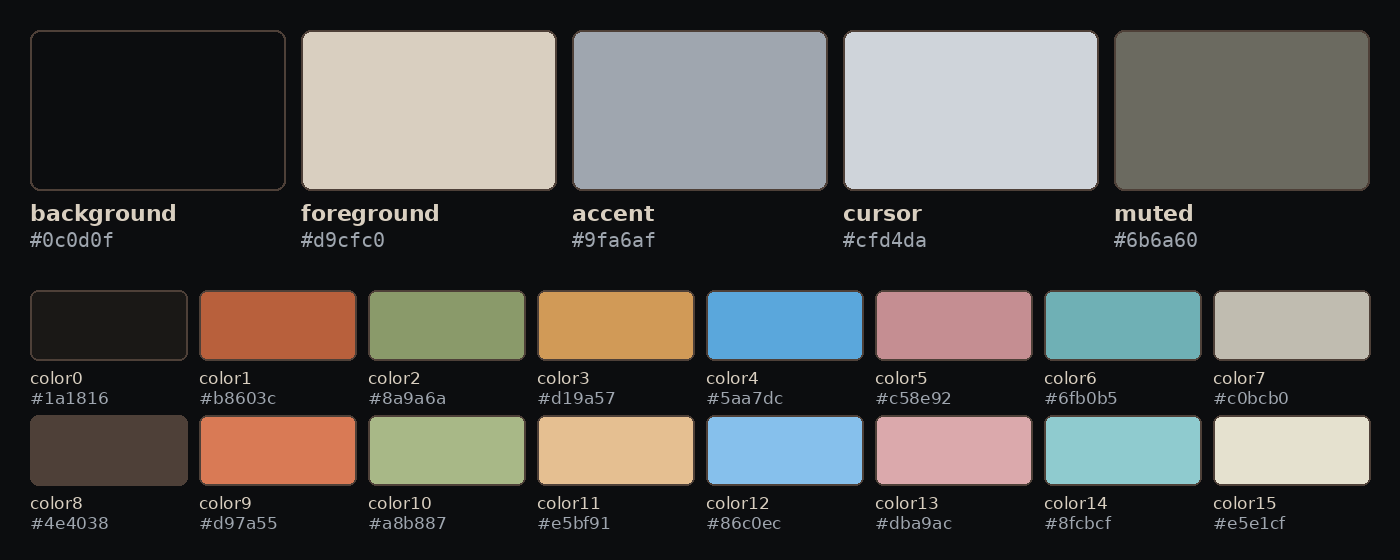
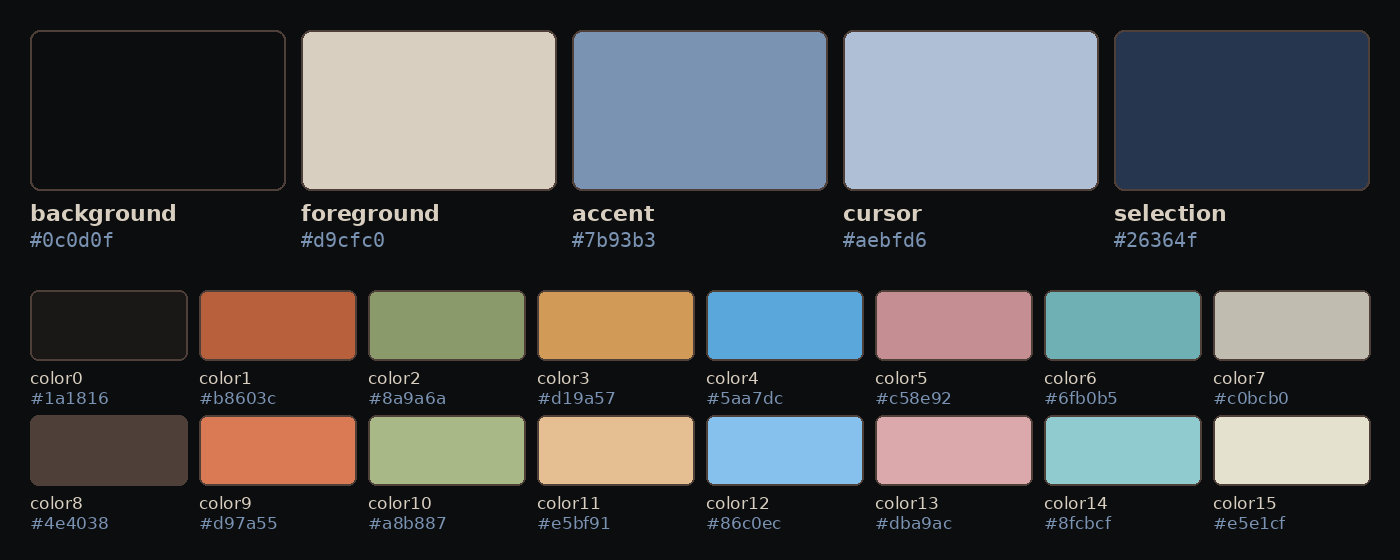
Bluer steel accent, deep-blue selection and a navy top bar for better legibility
Claude-Session: https://claude.ai/code/session_01QWYtjVwR9rPCPgaicygzAC

diff --git a/README.md b/README.md
@@ -2,7 +2,7 @@
 
 <p align="center">
   A dark <a href="https://omarchy.org">Omarchy</a> theme about cats.<br>
-  Near-black base, steel-gray accent, and a palette picked straight from six painted cat wallpapers.
+  Near-black base, steel-blue accent, and a palette picked straight from six painted cat wallpapers.
 </p>
 
 <p align="center">
@@ -14,7 +14,8 @@
 ## Highlights
 
 - **Cat palette**: every color comes from one of the cats (see the table below)
-- **Steel-gray accent** `#9fa6af` with a lighter `#cfd4da` cursor for a cool, metallic feel
+- **Steel-blue accent** `#7b93b3` with a lighter `#aebfd6` cursor and a deep-blue selection `#26364f`, for a cool, metallic feel
+- **Readable top bar**: navy bar background with light text (see [Top bar](#top-bar))
 - **Six painted wallpapers**, with the Siamese as the main one
 - **Animated intro** for the Siamese wallpaper: a warm golden light washes across the face and passes
 - Dark by design: background `#0c0d0f`
@@ -59,9 +60,11 @@ picking the background. To turn them off: `omarchy theme bg intro disable`.
 |---|---|---|
 | background | `#0c0d0f` | the dark backdrop around the Siamese |
 | foreground | `#d9cfc0` | cream fur and knitted blankets |
-| accent | `#9fa6af` | the gray cat, pushed toward cool steel |
-| cursor | `#cfd4da` | lighter steel highlight |
+| accent | `#7b93b3` | the gray cat's coat, pushed toward a deeper steel blue so it stands out |
+| cursor | `#aebfd6` | lighter steel highlight |
+| selection | `#26364f` | deep blue for selected text and rows |
 | muted | `#6b6a60` | shadows on the gray cat's coat |
+| bar background / text | `#0f1724` / `#e8eef7` | navy bar with near-white text (`shell.bar.toml`) |
 | color1 / color9 | `#b8603c` / `#d97a55` | calico rust |
 | color2 / color10 | `#8a9a6a` / `#a8b887` | the fern and pothos in the calico wallpaper |
 | color3 / color11 | `#d19a57` / `#e5bf91` | orange tabby fur |
@@ -70,6 +73,14 @@ picking the background. To turn them off: `omarchy theme bg intro disable`.
 | color6 / color14 | `#6fb0b5` / `#8fcbcf` | teal yarn |
 | color0 / color8 | `#1a1816` / `#4e4038` | black cat and Siamese seal brown |
 | color7 / color15 | `#c0bcb0` / `#e5e1cf` | pale fur |
+
+## Top bar
+
+The Omarchy top bar can be transparent (`clear`), `glassy` or `opaque`, and that choice is yours, not the
+theme's. With a transparent bar the clock and icons sit directly on the wallpaper, and on the Siamese's pale
+fur at the top center they become hard to read. This theme ships a navy bar background with near-white text
+(`shell.bar.toml`), which shows up in the `glassy` and `opaque` modes. **Double-click the bar to cycle
+clear, glassy and opaque** until you like it.
 
 ## Install
 
@@ -81,7 +92,8 @@ omarchy theme set cat
 ## What's inside
 
 ```
-colors.toml                    # palette (terminal, Waybar, Walker, Mako, Hyprlock, SwayOSD, btop, ...)
+colors.toml                    # palette (terminal, shell, launcher, notifications, lock screen, btop, ...)
+shell.bar.toml                 # top bar colors
 backgrounds/
   1-siamese.jpg ... 6-black.jpg
   intros/1-siamese.mp4         # animated intro for the main wallpaper
@@ -95,7 +107,8 @@ images/                        # pictures used by this README
 - **Add an intro**: put an `.mp4` with the same base name in `backgrounds/intros/`
   (for example `backgrounds/4-tabby.jpg` and `backgrounds/intros/4-tabby.mp4`). Wallpapers without
   an intro are simply shown as stills.
-- **Change the accent**: edit `accent`, `cursor` and `selection_background` in `colors.toml`.
+- **Change the accent**: edit `accent`, `cursor` and `selection` in `colors.toml`.
+- **Change the top bar**: edit `background` and `text` in `shell.bar.toml`.
 
 ## Credits
 
